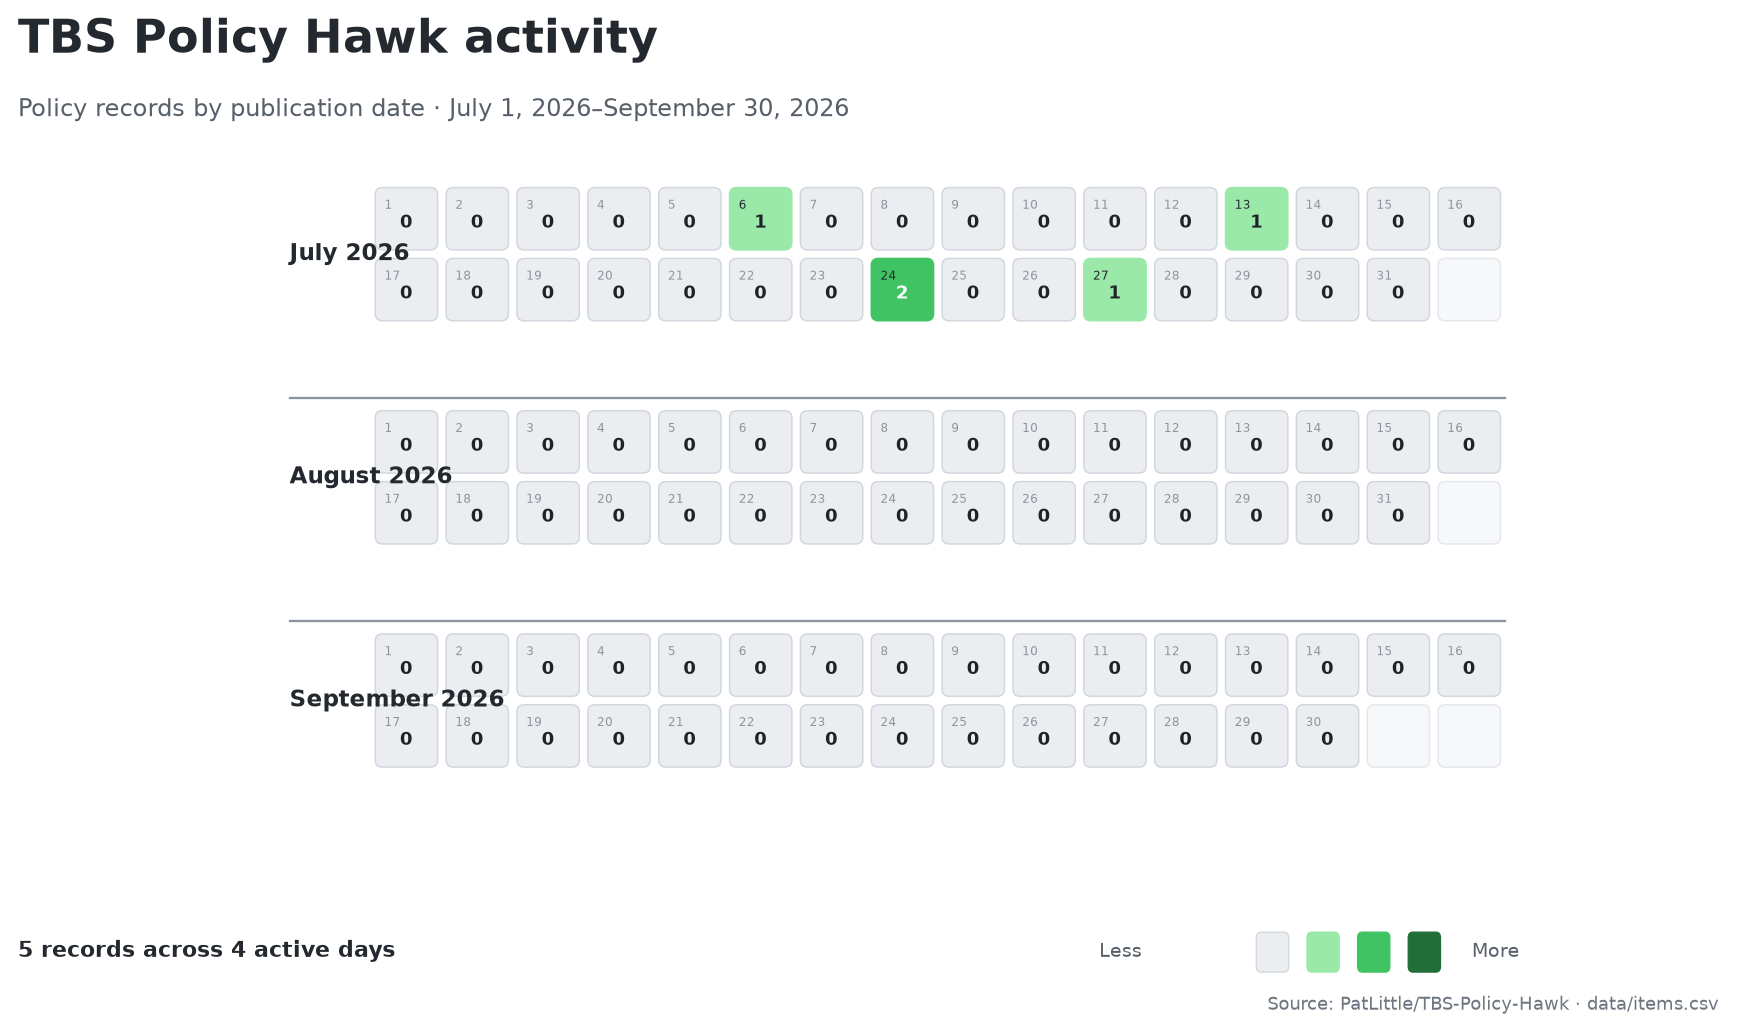
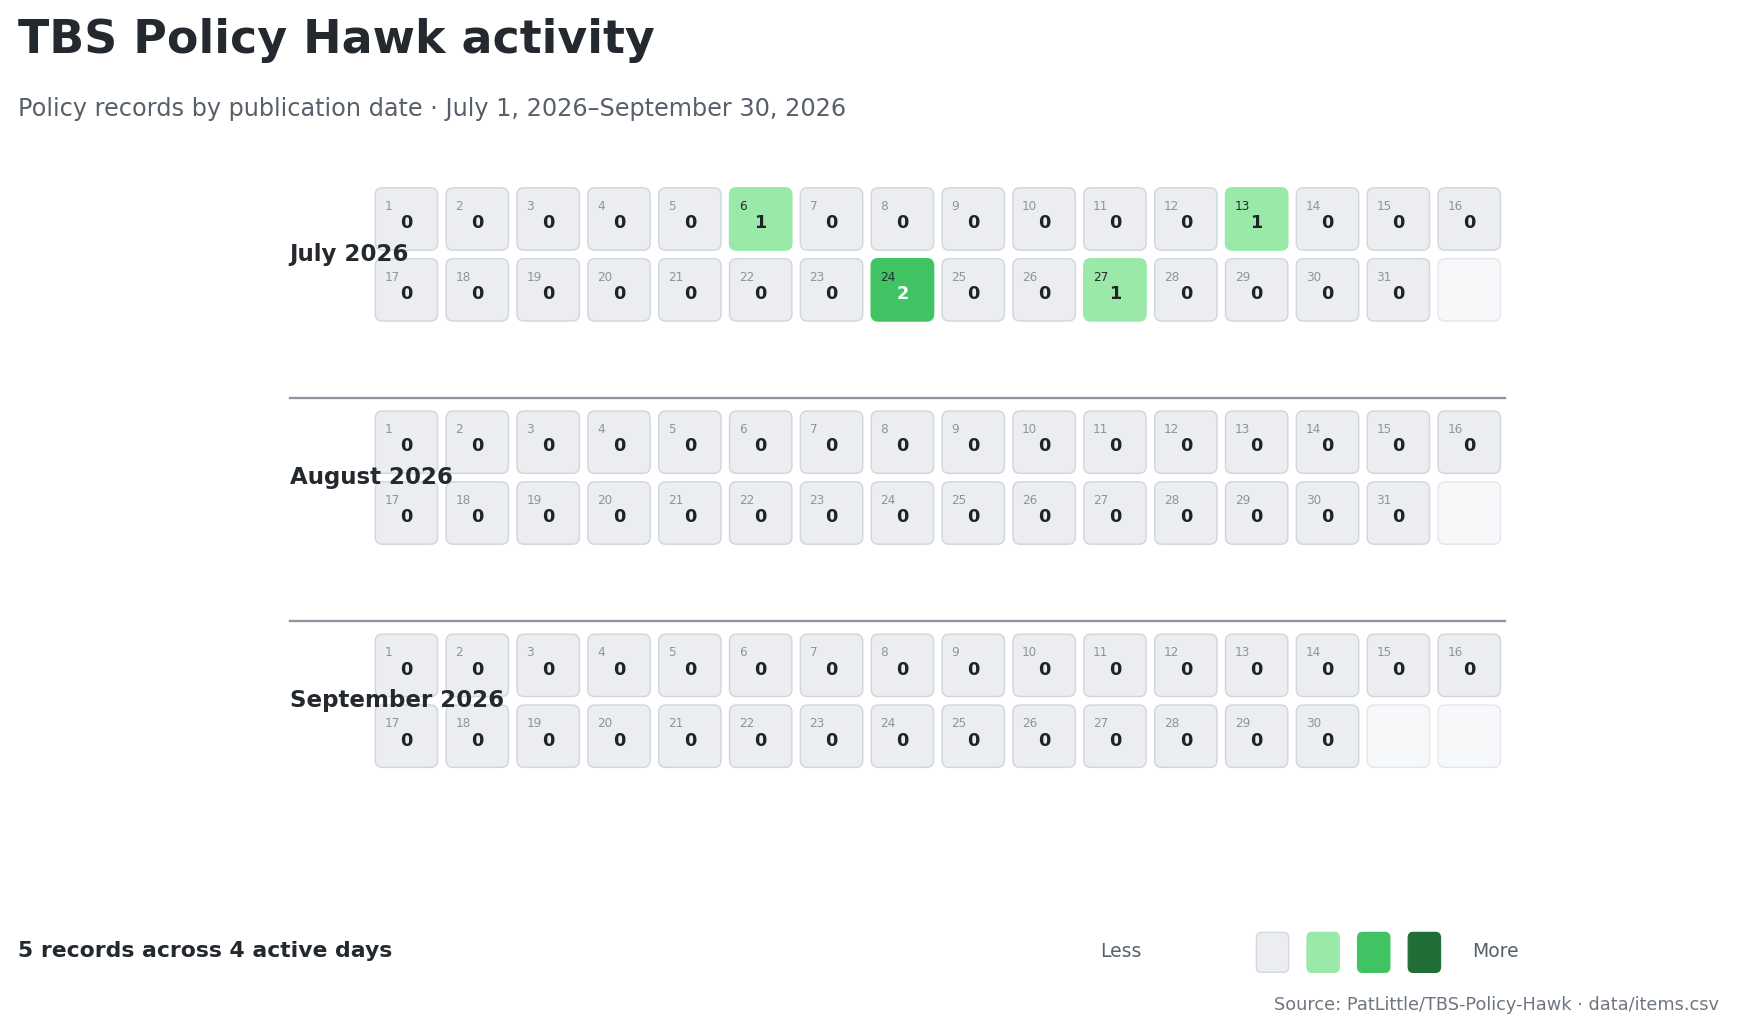
feat: embed metadata in policy heatmaps

diff --git a/scripts/generate_policy_heatmap.py b/scripts/generate_policy_heatmap.py
@@ -15,6 +15,10 @@ from urllib.request import Request, urlopen
 README_HEATMAP_MARKER = "<!-- policy-hawk:latest-heatmap -->"
 README_DATASETS_HEADING = "## Main Datasets"
 VALID_DATE_COLUMNS = {"pubDate", "updated_date"}
+IMAGE_SOFTWARE = "TBS-Policy-Hawk (github.com/PatLittle/TBS-Policy-Hawk)"
+IMAGE_COPYRIGHT = "© Pat Little, 2026"
+IMAGE_COPYRIGHT_EXIF = "(c) Pat Little, 2026"
+IMAGE_SUBJECT_LOCATION = "90 Elgin St, Ottawa, ON"
 
 
 def current_gc_fiscal_quarter(today: Optional[date] = None) -> Tuple[date, date]:
@@ -108,6 +112,42 @@ def display_date(value: date) -> str:
 
 def heatmap_filename(start: date, end: date) -> str:
     return f"tbs_policy_hawk_heatmap_{start.isoformat()}_to_{end.isoformat()}.png"
+
+
+def embed_image_metadata(output: Path) -> None:
+    """Embed standards-compatible EXIF and exact Unicode PNG metadata."""
+    from PIL import Image, PngImagePlugin
+
+    png_metadata = PngImagePlugin.PngInfo()
+    png_metadata.add_itxt("Software", IMAGE_SOFTWARE)
+    png_metadata.add_itxt("Copyright", IMAGE_COPYRIGHT)
+    png_metadata.add_itxt("SubjectLocation", IMAGE_SUBJECT_LOCATION)
+
+    exif = Image.Exif()
+    exif[305] = IMAGE_SOFTWARE  # Software
+    # EXIF's Copyright field is ASCII-only, so use an ASCII-compatible form.
+    exif[33432] = IMAGE_COPYRIGHT_EXIF  # Copyright
+    # EXIF SubjectLocation (41492) requires pixel coordinates, not an address.
+    # Preserve the requested address and Unicode copyright in UserComment.
+    exif_comment = (
+        f"Copyright: {IMAGE_COPYRIGHT}\n"
+        f"SubjectLocation: {IMAGE_SUBJECT_LOCATION}"
+    )
+    exif[37510] = b"UNICODE\0" + exif_comment.encode("utf-16-be")  # UserComment
+
+    with Image.open(output) as source:
+        source.load()
+        image = source.copy()
+        save_options = {
+            "pnginfo": png_metadata,
+            "exif": exif,
+        }
+        if "dpi" in source.info:
+            save_options["dpi"] = source.info["dpi"]
+        if "icc_profile" in source.info:
+            save_options["icc_profile"] = source.info["icc_profile"]
+
+    image.save(output, format="PNG", **save_options)
 
 
 def draw_heatmap(
@@ -290,6 +330,7 @@ def draw_heatmap(
         facecolor=fig.get_facecolor(),
     )
     plt.close(fig)
+    embed_image_metadata(output)
 
 
 def update_readme_heatmap(

diff --git a/tests/test_generate_policy_heatmap.py b/tests/test_generate_policy_heatmap.py
@@ -58,6 +58,50 @@ class HeatmapDataTests(unittest.TestCase):
         )
 
 
+class ImageMetadataTests(unittest.TestCase):
+    def test_embeds_exif_and_exact_png_metadata(self):
+        from PIL import Image
+
+        with TemporaryDirectory() as tmpdir:
+            output = Path(tmpdir) / "heatmap.png"
+            Image.new("RGB", (10, 10), color="white").save(output, dpi=(150, 150))
+
+            generate_policy_heatmap.embed_image_metadata(output)
+
+            with Image.open(output) as image:
+                self.assertEqual(
+                    image.info["Software"],
+                    generate_policy_heatmap.IMAGE_SOFTWARE,
+                )
+                self.assertEqual(
+                    image.info["Copyright"],
+                    generate_policy_heatmap.IMAGE_COPYRIGHT,
+                )
+                self.assertEqual(
+                    image.info["SubjectLocation"],
+                    generate_policy_heatmap.IMAGE_SUBJECT_LOCATION,
+                )
+                self.assertAlmostEqual(image.info["dpi"][0], 150, delta=0.1)
+
+                exif = image.getexif()
+                self.assertEqual(exif[305], generate_policy_heatmap.IMAGE_SOFTWARE)
+                self.assertEqual(
+                    exif[33432],
+                    generate_policy_heatmap.IMAGE_COPYRIGHT_EXIF,
+                )
+                self.assertTrue(exif[37510].startswith(b"UNICODE\0"))
+                comment = exif[37510][8:].decode("utf-16-be")
+                self.assertIn(
+                    f"Copyright: {generate_policy_heatmap.IMAGE_COPYRIGHT}",
+                    comment,
+                )
+                self.assertIn(
+                    "SubjectLocation: "
+                    f"{generate_policy_heatmap.IMAGE_SUBJECT_LOCATION}",
+                    comment,
+                )
+
+
 class ReadmeUpdateTests(unittest.TestCase):
     def test_heatmap_is_last_content_before_main_datasets(self):
         with TemporaryDirectory() as tmpdir:
